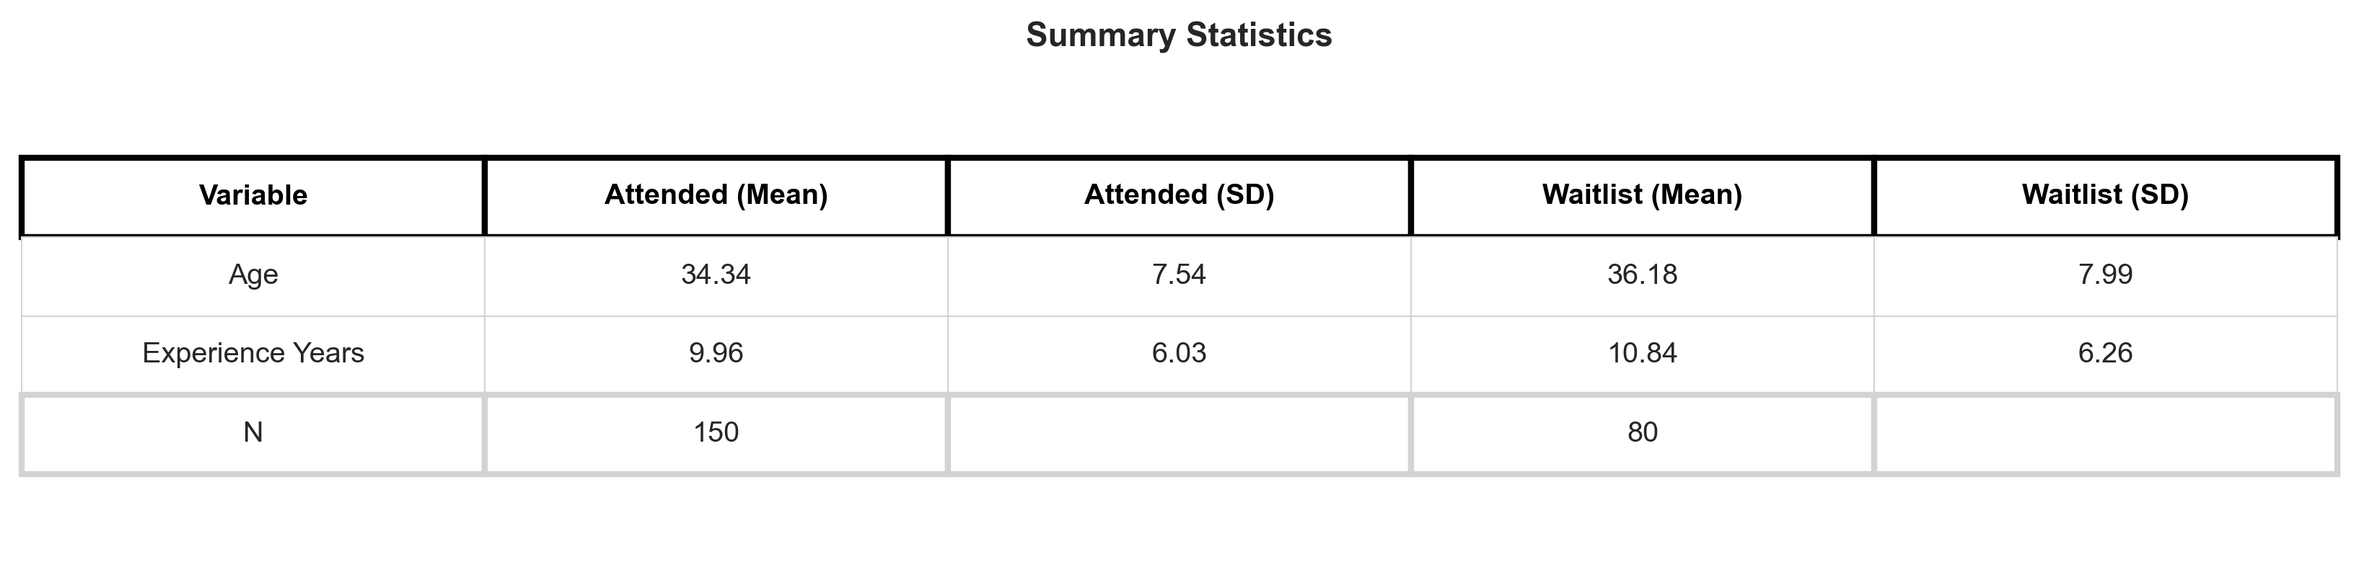
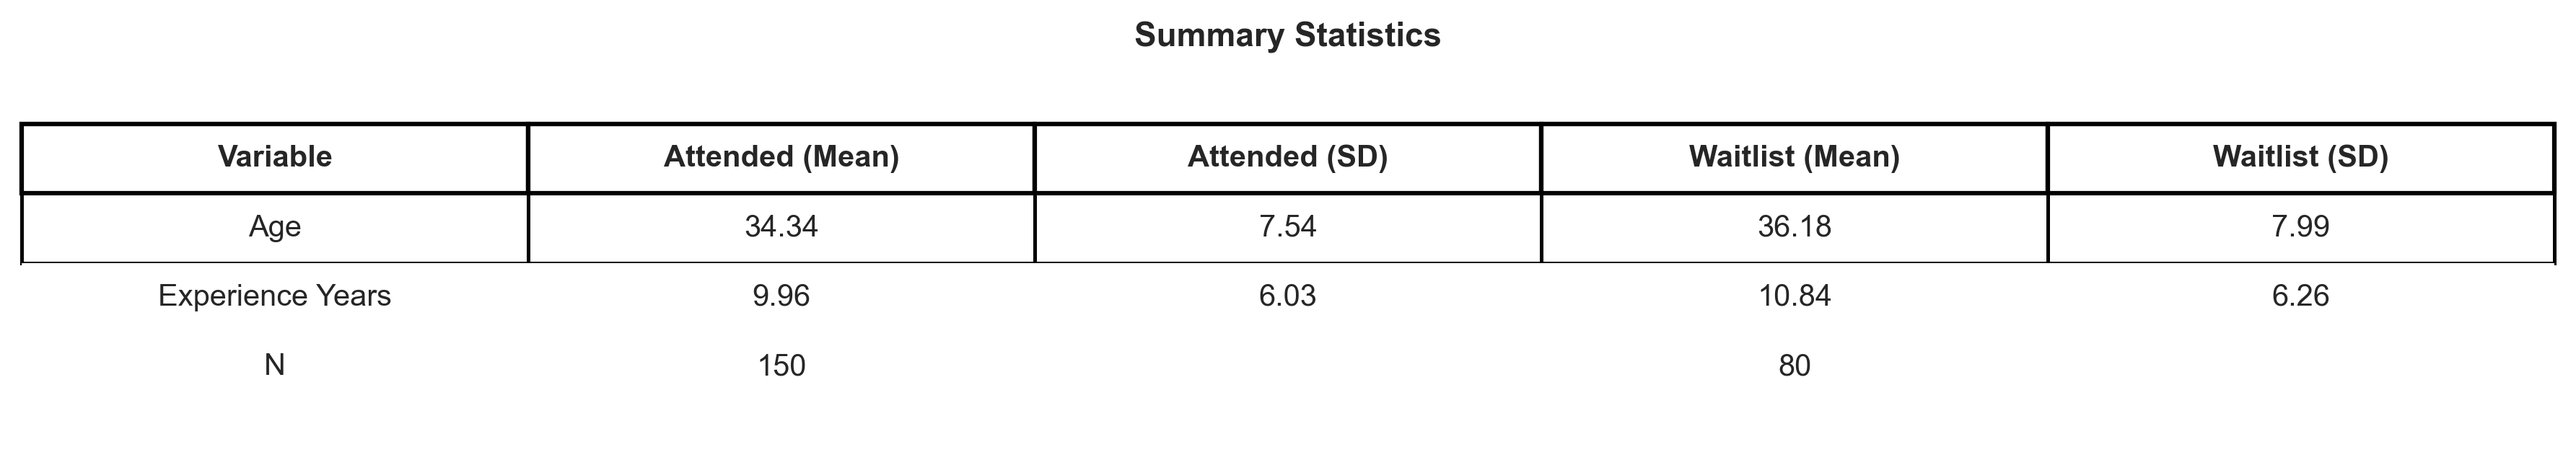
Replace matplotlib tables with LaTeX compilation

diff --git a/module_5/code/generate_course_analysis.py b/module_5/code/generate_course_analysis.py
@@ -292,59 +292,56 @@ plt.close()
 # 5. CREATE TABLE PNGS
 # ══════════════════════════════════════════════════════════════════════════════
 
-def table_to_png(df, filename, title="", academic=True):
-    """Convert a DataFrame to a PNG image in booktabs academic style."""
-    fig, ax = plt.subplots(figsize=(12, len(df)*0.35 + 1.2))
-    ax.axis('tight')
-    ax.axis('off')
+def latex_table_to_png(tex_table_path, png_output_path, title=""):
+    """Compile a LaTeX table file to PNG using pdflatex and pdf2image."""
+    import subprocess
+    import tempfile
+    from pdf2image import convert_from_path
 
-    table = ax.table(cellText=df.values, colLabels=df.columns, cellLoc='center', loc='center')
-    table.auto_set_font_size(False)
-    table.set_fontsize(10)
-    table.scale(1, 2.0)
+    # Read the table content
+    with open(tex_table_path, 'r') as f:
+        table_content = f.read()
 
-    if academic:
-        # Booktabs style: only horizontal lines, no vertical grid
-        n_rows = len(df) + 1  # +1 for header
-        n_cols = len(df.columns)
-
-        # First pass: remove all borders
-        for i in range(n_rows + 1):
-            for j in range(n_cols):
-                if (i, j) in table.get_celld():
-                    cell = table[(i, j)]
-                    cell.set_linewidth(0)
-                    cell.set_facecolor('white')
-                    # Make text bold for header
-                    if i == 0:
-                        cell.set_text_props(weight='bold', fontsize=10)
-
-        # Add only horizontal lines (top, below header, bottom)
-        for j in range(n_cols):
-            # Top line
-            if (0, j) in table.get_celld():
-                table[(0, j)].set_linewidth(1.5)
-                table[(0, j)].set_edgecolor('black')
-                table[(0, j)].set_linestyle('-')
-
-            # Line below header
-            if (1, j) in table.get_celld():
-                table[(1, j)].set_linewidth(1.2)
-                table[(1, j)].set_edgecolor('black')
-                table[(1, j)].set_linestyle('-')
-
-            # Bottom line
-            if (n_rows, j) in table.get_celld():
-                table[(n_rows, j)].set_linewidth(1.5)
-                table[(n_rows, j)].set_edgecolor('black')
-                table[(n_rows, j)].set_linestyle('-')
-
+    # Create a minimal LaTeX document wrapping the table
+    title_block = ''
     if title:
-        plt.title(title, fontsize=11, fontweight='bold', pad=12)
+        title_block = r'\begin{center}\textbf{\large ' + title + r'}\end{center}' + '\n\\vspace{0.5em}\n'
 
-    plt.tight_layout()
-    plt.savefig(filename, dpi=300, bbox_inches='tight', facecolor='white')
-    plt.close()
+    wrapper = r'''\documentclass[border=10pt]{standalone}
+\usepackage{booktabs}
+\usepackage{amsmath}
+\begin{document}
+''' + title_block + table_content + r'''
+\end{document}
+'''
+
+    with tempfile.TemporaryDirectory() as tmpdir:
+        tex_path = os.path.join(tmpdir, 'table.tex')
+        pdf_path = os.path.join(tmpdir, 'table.pdf')
+
+        with open(tex_path, 'w') as f:
+            f.write(wrapper)
+
+        # Compile with pdflatex
+        result = subprocess.run(
+            ['pdflatex', '-interaction=nonstopmode', '-output-directory', tmpdir, tex_path],
+            capture_output=True, text=True
+        )
+
+        if not os.path.exists(pdf_path):
+            print(f"Error compiling {tex_table_path}:")
+            print(result.stdout[-1000:])
+            return False
+
+        # Convert PDF to PNG
+        images = convert_from_path(pdf_path, dpi=300)
+        images[0].save(png_output_path, 'PNG')
+        return True
+
+
+def table_to_png(df, filename, title="", academic=True):
+    """Legacy function — kept for compatibility but unused for academic tables."""
+    pass
 
 # Create PNG versions of tables in academic style
 # Create a DataFrame representation of the regression results for PNG
